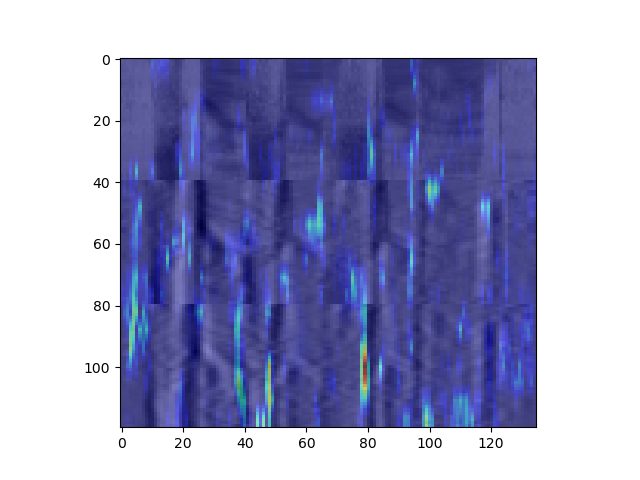
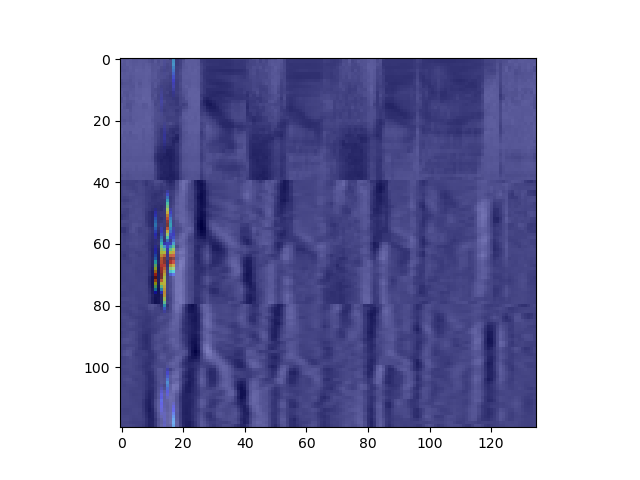
Modified GRAD-CAM to work with sequential data

diff --git a/grad_cam.py b/grad_cam.py
@@ -1,7 +1,7 @@
 import torch
 import torch.nn.functional as F
 
-class GRAD_CAM(object):
+class Sequential_GRAD_CAM(object):
 
     def __init__(self, net):
         self.net = net
@@ -19,7 +19,7 @@ class GRAD_CAM(object):
         self.net.cnn_layers[-1].register_forward_hook(get_activation)
         self.net.cnn_layers[-1].register_backward_hook(get_gradients)
 
-    def generate_cam(self, target_classes, input_shape):
+    def generate_cam(self, input_shape, target_classes, target_classes_start, target_classes_end):
         """Generates Class Activation Map using final convolutional layer. If multiple target classes provided,
         it will take the element-wise maximum of all the respective CAM's and return the result. 
 
@@ -33,7 +33,9 @@ class GRAD_CAM(object):
 
         cams = []
 
-        for target_class in target_classes:
+        for i in range(len(target_classes)):
+
+            target_class = target_classes[i]
 
             # retain_graph allows for multiple backward() calls
             target_class.backward(retain_graph=True)
@@ -46,20 +48,29 @@ class GRAD_CAM(object):
             # Alternate way: F.adaptive_avg_pool2d(self.gradient, 1), no need for unsqueezing
 
             # Weight activations by said weights and ReLU
-            # TODO: Using the network activations in the last conv layer doesn't take into account how the different classes are spread across time
-            # Our network's FC layers work by using a 2D weight matrix in parallel across all timesteps
-            # So, the same learnable parameters are being applied to each unique timstep classifications
-            # BUT, the gradients in this last layer is only present in the correct timestep?
-            g_cam = F.relu(torch.sum(torch.mul(self.activation, alpha), dim=1, keepdim=True))
+            # IMPORTANT Algorithm tweak: use time-slices of activation one timestep at a time
+            # unsqueeze time dimension since it gets squeezed when slicing for one column blah blah blah
+            g_cam = F.relu(torch.sum(torch.mul(self.activation[:,:,:,target_classes_end - target_classes_start + i].unsqueeze(-1), alpha), dim=1, keepdim=True))
 
-            # Interpolate
-            cams.append(F.interpolate(g_cam, size=input_shape, mode='bilinear'))
+            # Pad in time dimension with zeros on left of start and right of end
+            padding = (target_classes_start + i, input_shape[1] - (target_classes_start + i + 1))
+            padded_gcam = F.pad(g_cam, padding, 'constant', 0)
+            # Interpolate in features dimension
+            cams.append(F.interpolate(padded_gcam, size=input_shape, mode='bilinear'))
 
-        combined_cams = torch.empty_like(cams[0])
+        combined_cams = torch.zeros_like(cams[0])
 
         # This max works since CAM's are ReLU'd and allows for superimposing multiple cams
         for cam in cams:
-            combined_cams = torch.maximum(combined_cams, cam)
+            # There seems to be high variance among cams that are combined, 
+            # so certain classes will make other classes' cams disappear. Normalizing
+            # will alleviate this problem
+            if torch.all(cam == 0):
+                # Sometimes ReLU'd activations are all 0's, will cause NaN problems when normalized
+                normalized_cam = cam
+            else:
+                normalized_cam = (cam - torch.min(cam)) / (torch.max(cam) - torch.min(cam))
+            combined_cams = torch.maximum(combined_cams, normalized_cam)
 
         return combined_cams 
 
@@ -69,7 +80,7 @@ class GRAD_CAM(object):
         # Off by one so that first "change" corresponds to first phoneme
         changes = -1
         prev = None
-        target_class_start, target_class_end = -1, -1
+        target_classes_start, target_classes_end = -1, -1
         desired_phoneme = None
         started = False
 
@@ -77,25 +88,24 @@ class GRAD_CAM(object):
             p = guessed_labels[i]
             if p != prev:
                 if started:
-                    target_class_end = i
+                    target_classes_end = i
                     break
                 changes += 1
                 prev = p
 
             if changes == desired_phone_idx:
                 if not started:
-                    target_class_start = i
+                    target_classes_start = i
                     started = True
                 desired_phoneme = p
 
         print('---------------------------')
-        print('Range of CAM\'ed label: {} to {}'.format(target_class_start, target_class_end))
+        print('Range of CAM\'ed label: {} to {}'.format(target_classes_start, target_classes_end))
         print('---------------------------')
         # log_probs is of shape time x classes
-        # TODO: i believe the problem has to be here with indexing the correct values...
         target_classes = []
-        target_class_timestep_probs = log_probs[target_class_start:target_class_end]
+        target_class_timestep_probs = log_probs[target_classes_start:target_classes_end]
         for probs in target_class_timestep_probs:
             target_classes.append(probs[desired_phoneme])
 
-        return target_classes
+        return target_classes, target_classes_start, target_classes_end

diff --git a/inference.py b/inference.py
@@ -1,6 +1,6 @@
 import torch
 from ctcdecode import CTCBeamDecoder
-from grad_cam import GRAD_CAM
+from grad_cam import Sequential_GRAD_CAM
 import matplotlib.pyplot as plt
 
 def test(model, test_loader, criterion, device, transformer):
@@ -45,6 +45,9 @@ def show_activation_map(model, device, input, desired_phone_idx):
     can span multiple time-steps, so when asking for a map wrt a class, the specific phoneme must be provided in the form of its index in the (non-artificially-repeating) original phoneme transcript. 
     In turn, a map will be generated by taking the element-wise maximum among all maps corresponding to the desired phoneme.
 
+    For example, if the non-duration-including phoneme transcript is ['sil', 'ae', 's', 'ae'], then providing desired_phone_idx = 1 will generate a CAM 
+    across all timesteps covered by the first 'ae'.
+
     Args:
         model (nn.Module): Network to put input into
         device (torch.device): Device (cpu or cuda) 
@@ -52,7 +55,7 @@ def show_activation_map(model, device, input, desired_phone_idx):
         desired_phone_idx (int): The index of the desired phoneme in the output transcript to generate the activation map with respect to 
     """
 
-    gcam = GRAD_CAM(model)
+    gcam = Sequential_GRAD_CAM(model)
 
     # Artifically create batch dimension
     input = input.to(device).unsqueeze(0)
@@ -62,9 +65,9 @@ def show_activation_map(model, device, input, desired_phone_idx):
     guessed_labels = torch.argmax(log_probs, dim=1)
 
     # guessed_indices don't requires_grad, so we index into log_probs to get target_classes
-    target_classes = gcam.get_target_classes(log_probs, guessed_labels, desired_phone_idx)
+    target_classes, target_classes_start, target_classes_end = gcam.get_target_classes(log_probs, guessed_labels, desired_phone_idx)
     # Squeeze out batch and channel dimensions when providing interpolation size
-    cam = gcam.generate_cam(target_classes, input.squeeze(0).squeeze(0).shape)
+    cam = gcam.generate_cam(input.squeeze(0).squeeze(0).shape, target_classes, target_classes_start, target_classes_end)
 
     plotted_cam = cam.squeeze(0).permute(1, 2, 0).cpu()
     plotted_input = input.squeeze(0).permute(1, 2, 0).cpu()

diff --git a/README.md b/README.md
@@ -132,10 +132,18 @@ So I implemented all the GRAD-CAM logic so that it uses the activations and grad
 
 In our network, we first flatten the activation maps of the final convolutional layer, which are of shape `(batch x channel x feature x time)` before flattening and `(batch x time x channel * feature)` after (plus a dimension transposition to make it compatible with the expectation of Pytorch's Linear module). These are fed into the fully connected layers, which only do work in a single dimension: the flattened feature one. However, there still exists the time dimension, so what happens to it? Nothing, really. The first Linear module in Pytorch applies a 2-dimensional weight matrix to the input Tensor of shape `(out_features x in_features) = (channel * feature x 1024)`, and our features are the acoustic features in the feature dimension, not the time one. So the model is actually applying this *same weight matrix to each unique timestep in parallel*. 
 
-What does this mean wrt GRAD-CAM? Well, that method uses a weighted combination of activation maps, and if each timestep is looking at the entirety of the activation maps, then the interpretation is a bit weird. As I saw in an example, the CAM for a single class (phoneme) at a specific timestep is actually taking information from across a bunch of timesteps in the input spectrogram. 
+What does this mean wrt GRAD-CAM? Well, that method uses a weighted combination of the entirety of the activation maps, but in our model, the Linear weight matrix is being applied to only a single time-slice of these last layer activation maps. So if we were to use vanilla GRAD-CAM on a specific class at a certain timestep, we would be getting the correct gradients only existing during that timestep in the last conv layer, but those will be used to weigh the last layer activations that are spanning every timestep.
 
-Below is an example for a phoneme (class) that is present from timesteps 10 to 17, yet GRAD-CAM is saying that it's paying attention the most to timestep 80!
+It seems GRAD-CAM is not the move here with its reliance on layer activations. I guess this opens up the question of how should we add interpretability to a Convolutional model that works with sequential input? Perhaps I should just use a simplier saliency map or something that just uses the gradient. 
 
-![Alt text](./cam.png)
+**7/4**
 
-It seems GRAD-CAM is not the move here with its reliance on layer activations. I guess this opens up the question of how should we add interpretability to a Convolutional model that works with sequential input? It is worth mentioning that while the last layer activations span the entire image, the last layer gradients with respect to a phoneme are exclusive to the timestep in which it appears. Perhaps I should just use a simplier saliency map or something that just uses the gradient. 
+After writing the previous post, I drew a nice diagram for myself to see if I would find anyting I wasn't seeing before in how GRAD-CAM works on our network, and it was successful! In a normal CNN, the entire last layer activations are flattened into a singular vector that is passed through the FC layers. But in ours, the time dimension is left alone. So to be analagous to GRAD-CAM, what we need to do is *only look at the last layer activations during the timesteps we care about!*. (I should probably upload my diagram somewhere because it shows how I concluded this in a clearer way. Also the previous post included an incorrect undersanding of this process as well, so that was updated.)
+
+Did this work? Was my logic correct? Yes and yes. Below is the modified GRAD-CAM for a phoneme that is classified as occurring within timesteps 10 and 18.
+
+![Modified GRAD-CAM Result](./cam.png)
+
+Sometimes, the ReLU'd activations end up just giving us an all 0 activation map. In addition, there seems to be high variance among the cams that are combined across neighboring timesteps, so certain classes will make other classes' cams disappear in the final result. Normalizing each one before combining will alleviate this problem.
+
+A nice side-effect of this is that now we actually get interpretability in CTC! How? Well, with this modified GRAD-CAM, we can generate activation maps for sequential outputs, which CTC generates. The difference, still, is that knowing which classes to generate these CAMs wrt is not immediately clear? Should it be the greedy decoding result? The beam-searched result? These are options left open and could lead to varyingly successful results. Whatever though, our method makes it clear which classes they should be: the greedy one is the optimal alignment.
